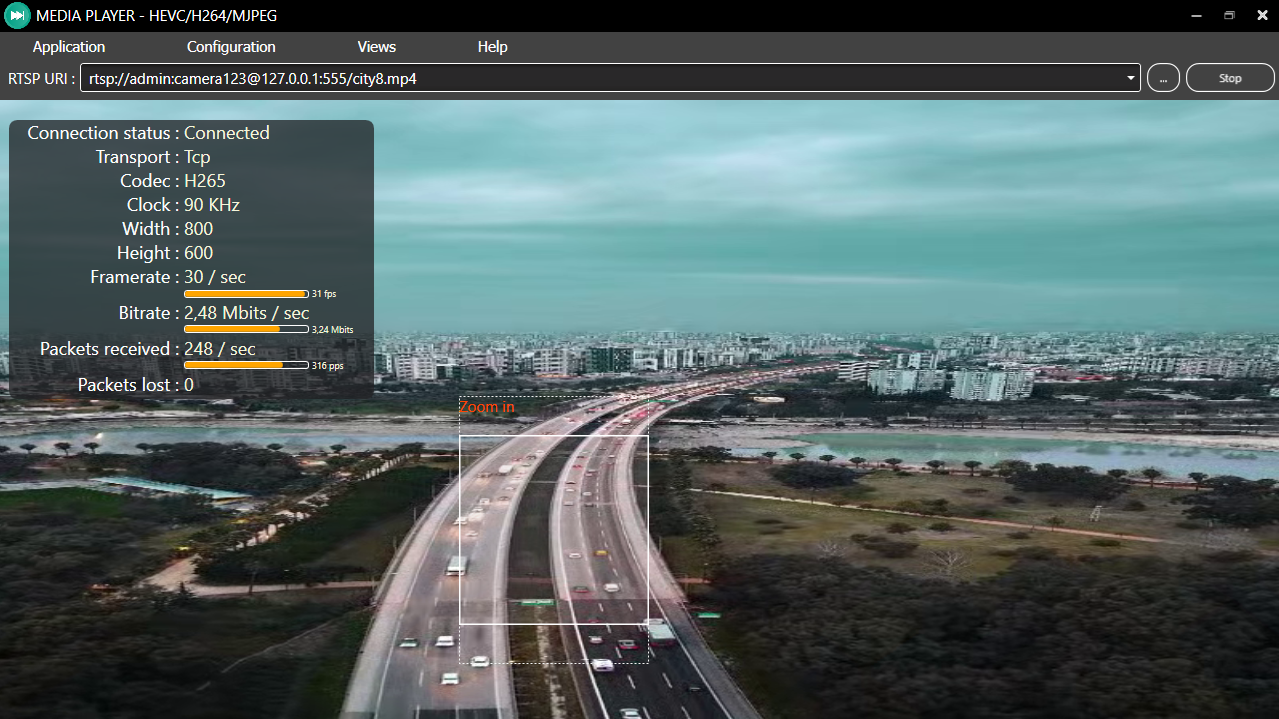
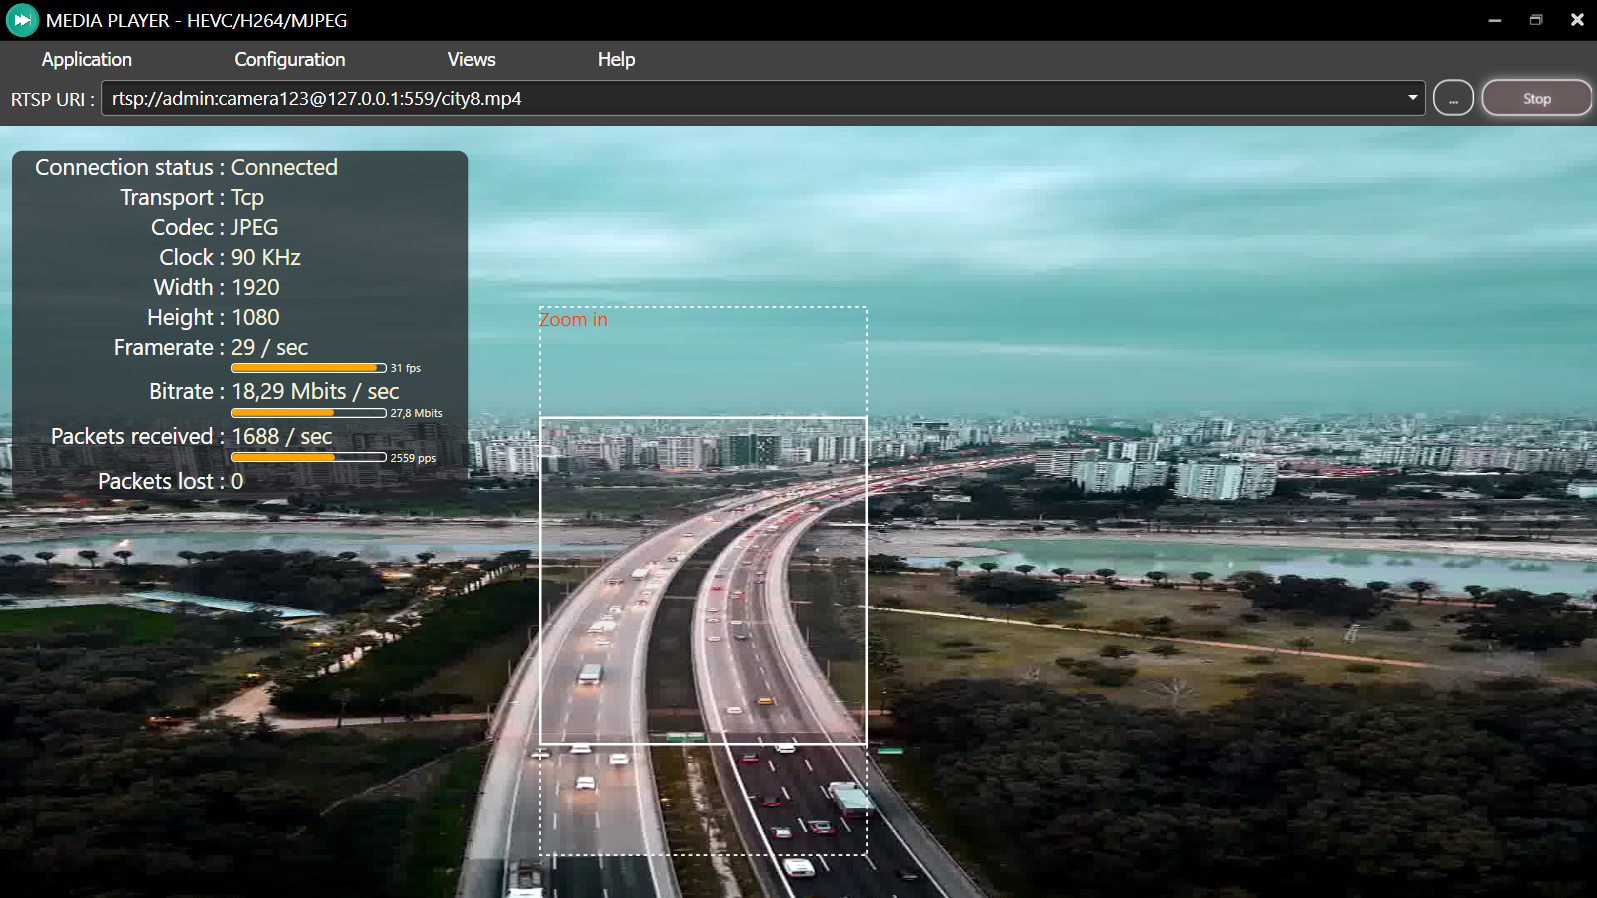
improve the zoom

diff --git a/RabbitOM.Player/Controls/ZoomImageControl.xaml b/RabbitOM.Player/Controls/ZoomImageControl.xaml
@@ -25,7 +25,7 @@
                    HorizontalAlignment="Stretch"
                    VerticalAlignment="Stretch"
                    Stroke="WhiteSmoke" 
-                   StrokeThickness="1.0"
+                   StrokeThickness="1.5"
                    StrokeDashArray="2 2"
                    Canvas.Left="{Binding SelectionX}"
                    Canvas.Top="{Binding SelectionY}"
@@ -39,7 +39,7 @@
                    HorizontalAlignment="Stretch"
                    VerticalAlignment="Stretch"
                    Stroke="White" 
-                   StrokeThickness="1.5" 
+                   StrokeThickness="2.0" 
                    Fill="#30AAA0A0" 
                    Visibility="{Binding RegionVisibility,Mode=TwoWay,UpdateSourceTrigger=PropertyChanged}"
                    />

diff --git a/RabbitOM.Player/Controls/ZoomImageControl.xaml.cs b/RabbitOM.Player/Controls/ZoomImageControl.xaml.cs
@@ -263,11 +263,11 @@ namespace RabbitOM.Player.Controls
                 return false;
             }
 
-            ScaleX = ActualWidth / SelectionWidth;
-            ScaleY = ActualHeight / SelectionHeight;
+            ScaleX = ActualWidth / InnerRectangle.ActualWidth;
+            ScaleY = ActualHeight / InnerRectangle.ActualHeight;
 
-            TranslationX = -SelectionX * ScaleX;
-            TranslationY = -SelectionY * ScaleY;
+            TranslationX = -SelectionInnerX * ScaleX;
+            TranslationY = -SelectionInnerY * ScaleY;
             return true;
         }
 

diff --git a/README.md b/README.md
@@ -108,7 +108,7 @@ This sample include statitics component to display the framerate, the network ba
 
 You can receive media content using TCP / UDP or Multicast
 
-![Player](https://github.com/KSAH-42/RabbitOM/blob/master/Resources/Images/RabbitOM.Player.Udp.png)
+![Player](https://github.com/KSAH-42/RabbitOM/blob/master/Resources/Images/RabbitOM.Player.TransportTypes.png)
 
 If your camera is located I strongly recommended to used TCP. Otherwise if you used UDP or the event the multicast transport, contact your IT administrator and discuss with him.
 
